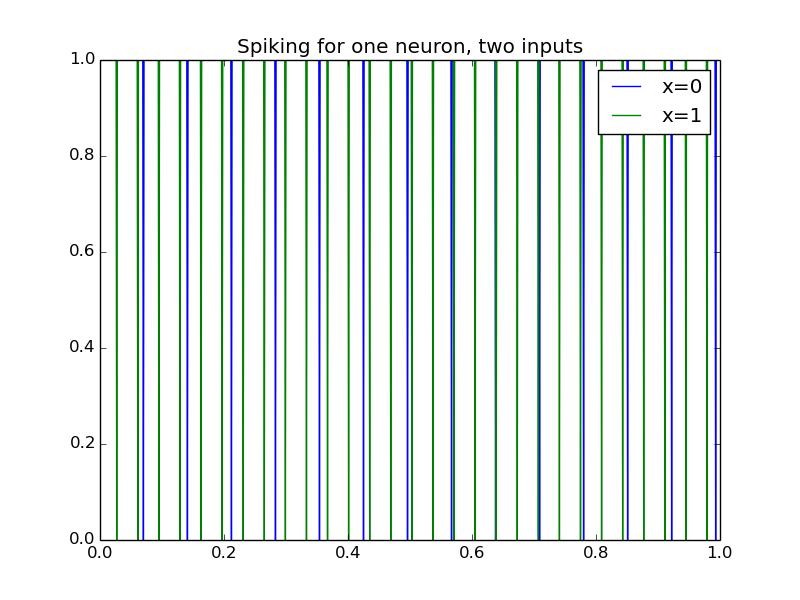
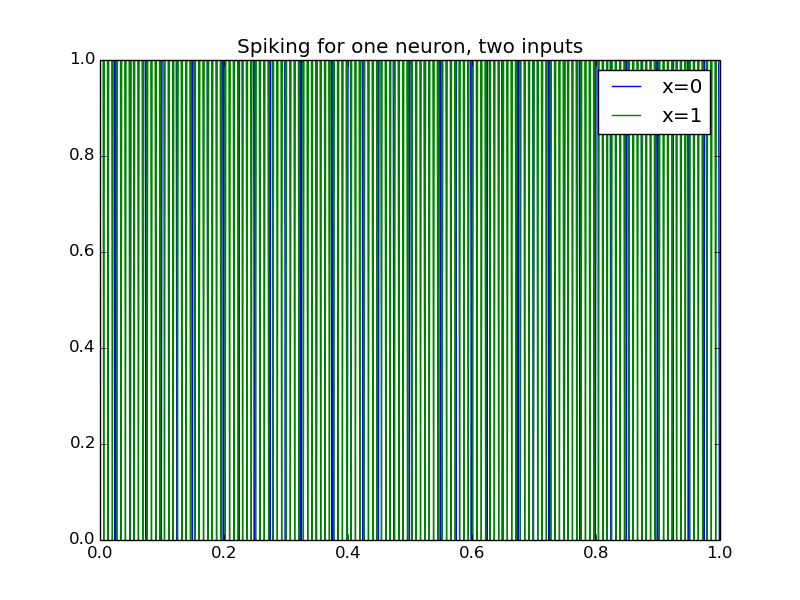
got spiking working

diff --git a/SYDE750_ass2/utils.py b/SYDE750_ass2/utils.py
@@ -1,4 +1,5 @@
 import numpy as np
+import ipdb
 import matplotlib.pyplot as plt
 
 def whitenoise(T, dt, rms, limit, seed):
@@ -39,11 +40,12 @@ def whitenoise(T, dt, rms, limit, seed):
 	return time_domain, (rms/curr_rms)*final_coef
 
 class SpikingLif(object):
-	def __init__(self, t_ref=0.002, t_rc=0.2, dt=0.0001):
+	def __init__(self, t_ref=0.002, t_rc=0.02, dt=0.001):
 		self.t_ref = t_ref
 		self.t_rc = t_rc
 		self.refac_time = 0.0
 		self.refac = True
+		print("dt: %s" %dt)
 		self.dt = dt
 		self.potential = 0.0
 		self.spike_count = 0
@@ -51,9 +53,12 @@ class SpikingLif(object):
 	def spike(self, current):
 		if(self.refac == False):
 			# use that differential equation
-			dV = 1/self.t_rc*(current-self.potential)*self.dt
+			dV = 1.0/self.t_rc*(current-self.potential)*self.dt
+			#ipdb.set_trace()
 			self.potential += dV
+			# If we've reached 1, spike
 			if(self.potential >= 1):
+				# start the refactory period and reset the potential
 				self.refac = True
 				self.potential = 0.0
 				self.spike_count += 1
@@ -63,6 +68,7 @@ class SpikingLif(object):
 			# increment the refactory period
 			self.refac_time += self.dt
 			if(self.refac_time >= self.t_ref):
+				# if we've reached the maximum refactory period, reset it
 				self.refac = False
 				self.refac_time = 0.0
 			return 0.0
@@ -79,18 +85,9 @@ def modified_lif(x0_fire, max_fire, t_ref=0.002, t_rc=0.02):
 		)
 	)
 	alpha = beta - J_bias
-	def lif(x):
-		J = x * alpha + J_bias
-		return_val = np.zeros(x.shape[0])
-		# Select all the values where J > 1
-		return_val[J > 1] += np.maximum(
-						# Caluclate the activity
-						1.0/(t_ref-t_rc*np.log(1-1/J[J > 1])),
-						# make it zero if it's below zero
-						np.zeros(return_val[J > 1].size)
-					)
-		return return_val
-	return lif
+	def lif_current(x):
+		return x * alpha + J_bias
+	return lif_current
 
 def two_neurons():
 	lif1 = modified_lif(40, 150)

diff --git a/SYDE750_ass2/q2.py b/SYDE750_ass2/q2.py
@@ -3,10 +3,11 @@ import ipdb
 import matplotlib.pyplot as plt
 from utils import SpikingLif, modified_lif, whitenoise
 
+dt = 0.001
 lif_neuron = modified_lif(40, 150)
 # try to make the spiking version work
-spike = SpikingLif()
-time_steps = np.arange(0, 1, 0.001)
+spike = SpikingLif(dt=dt)
+time_steps = np.arange(0, 1, dt)
 res_0 = []
 for t in time_steps:
 	res_0.append(
@@ -36,7 +37,6 @@ plt.title("Spiking for one neuron, two inputs")
 plt.savefig("2_a")
 
 # what number of spikes are we expecting here anyways?
-
 noise, _ = whitenoise(1, 0.001, 0.5, 30, 0)
 noise_res = []
 for val in noise:
